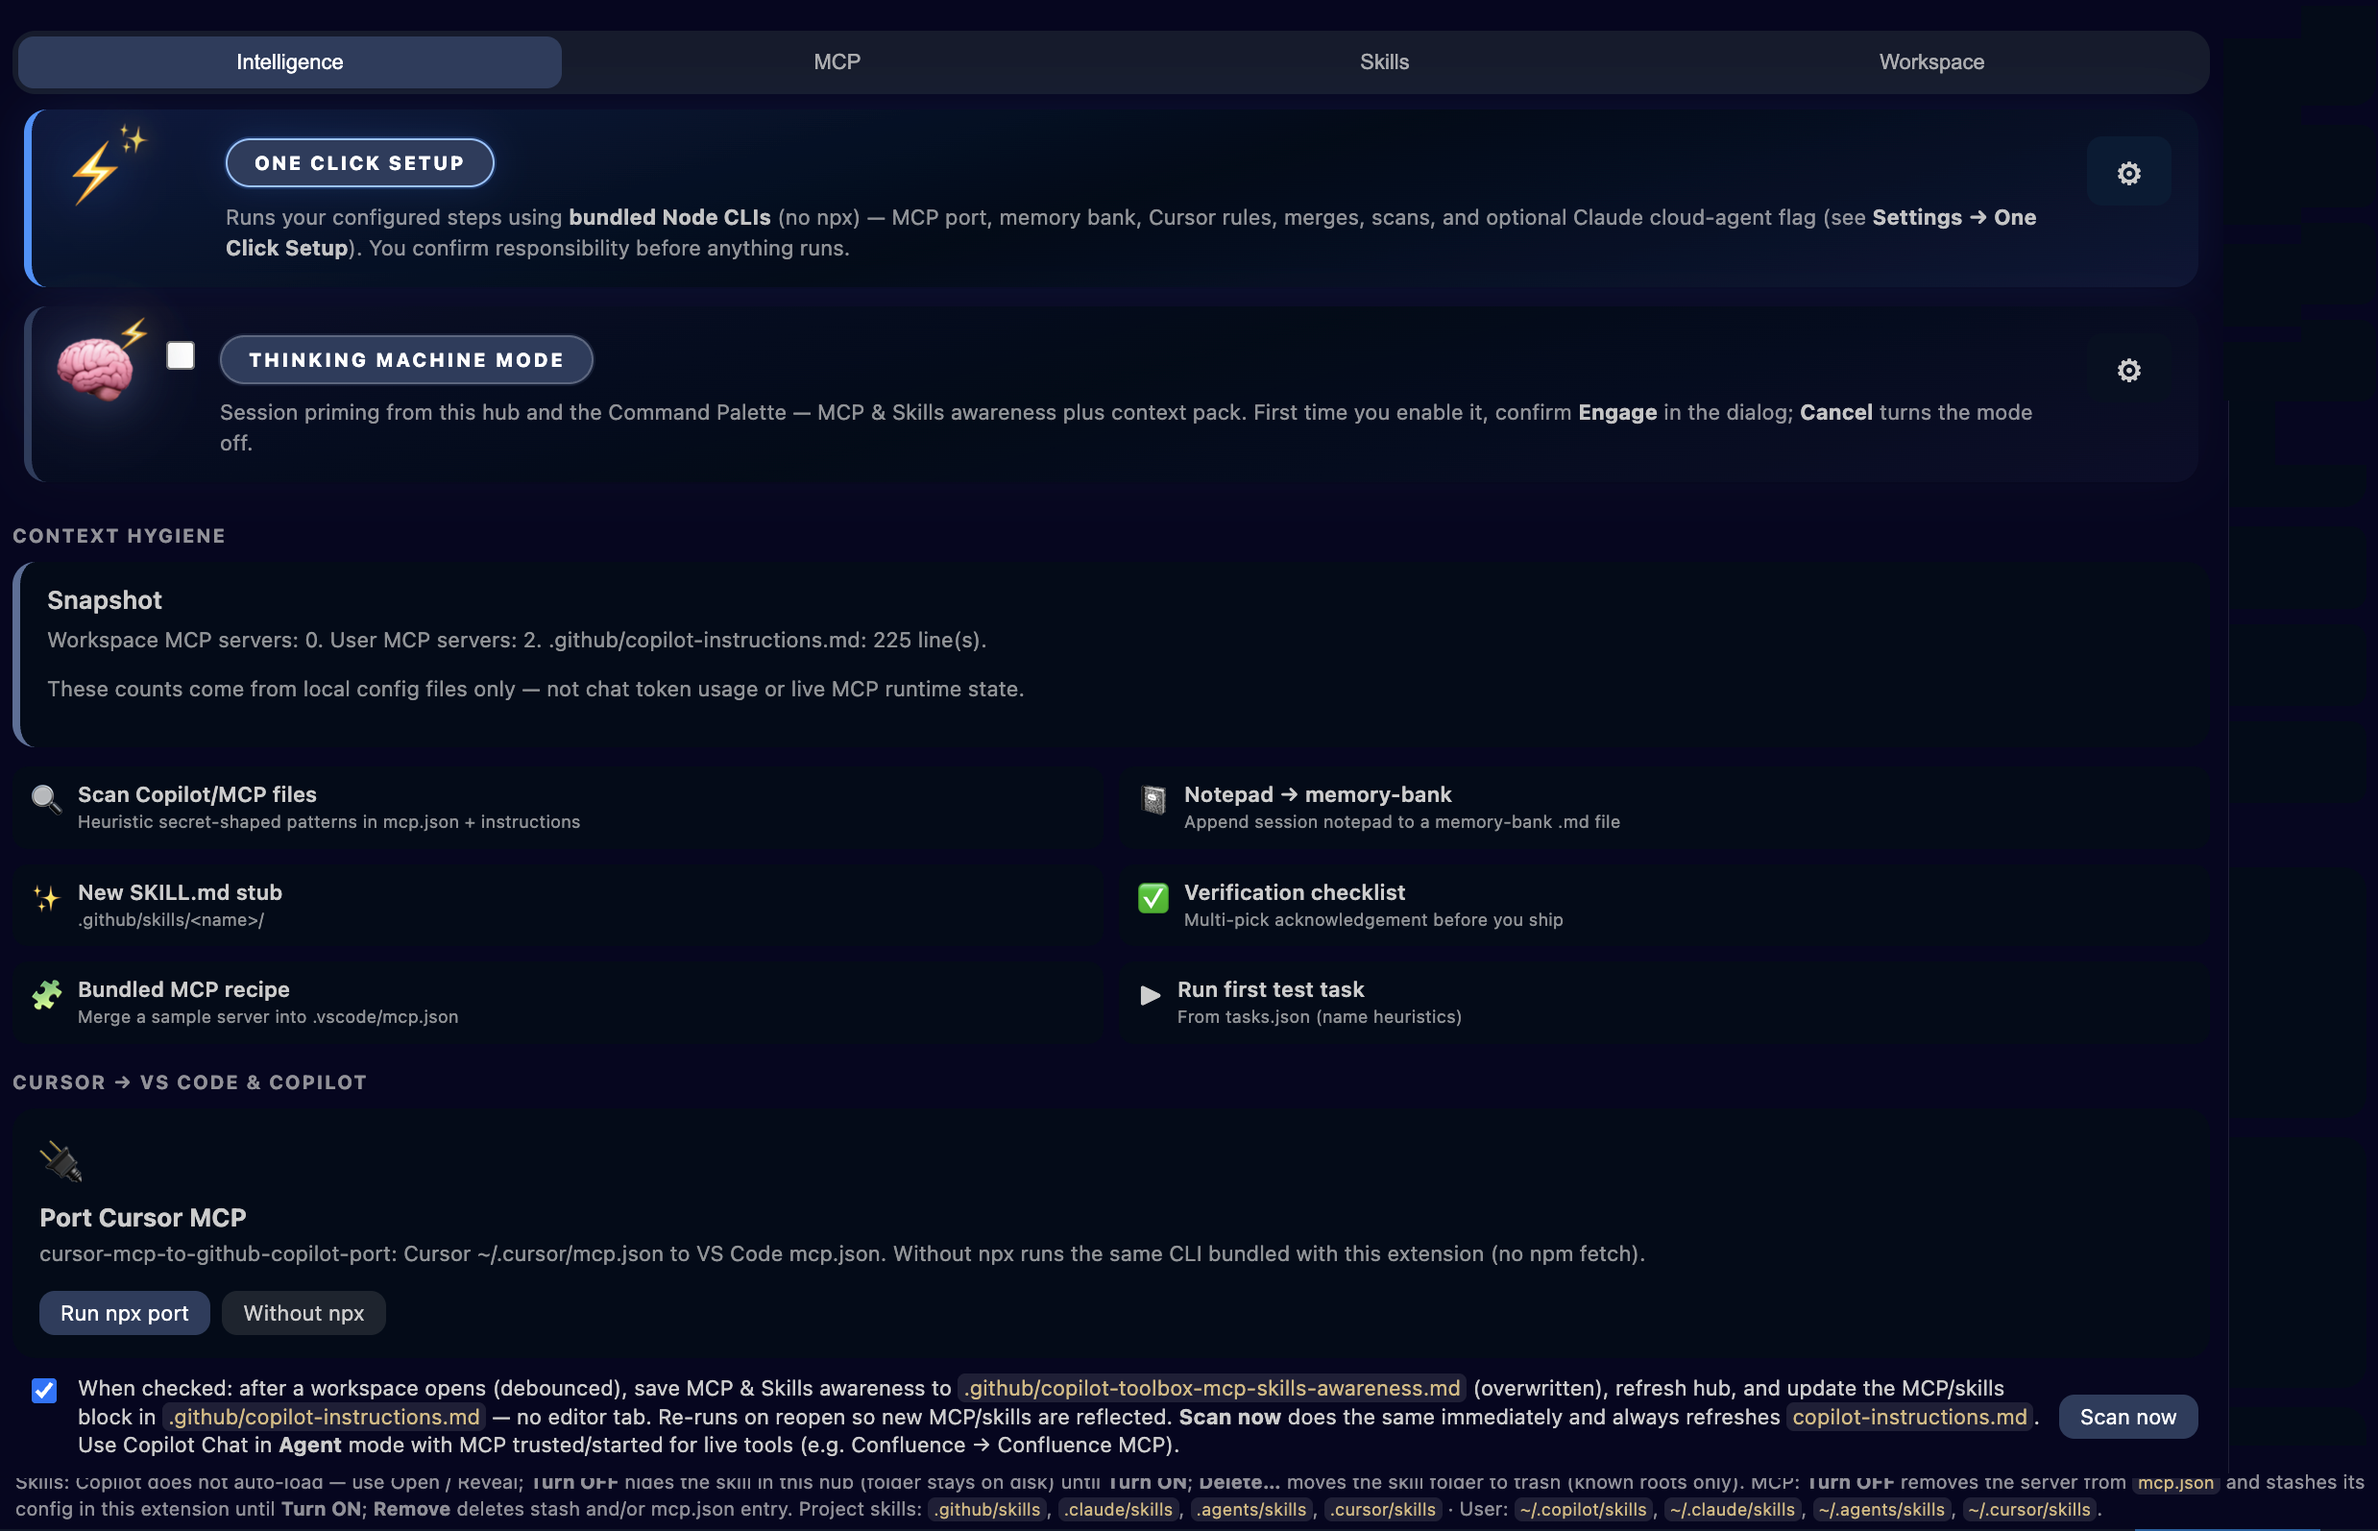
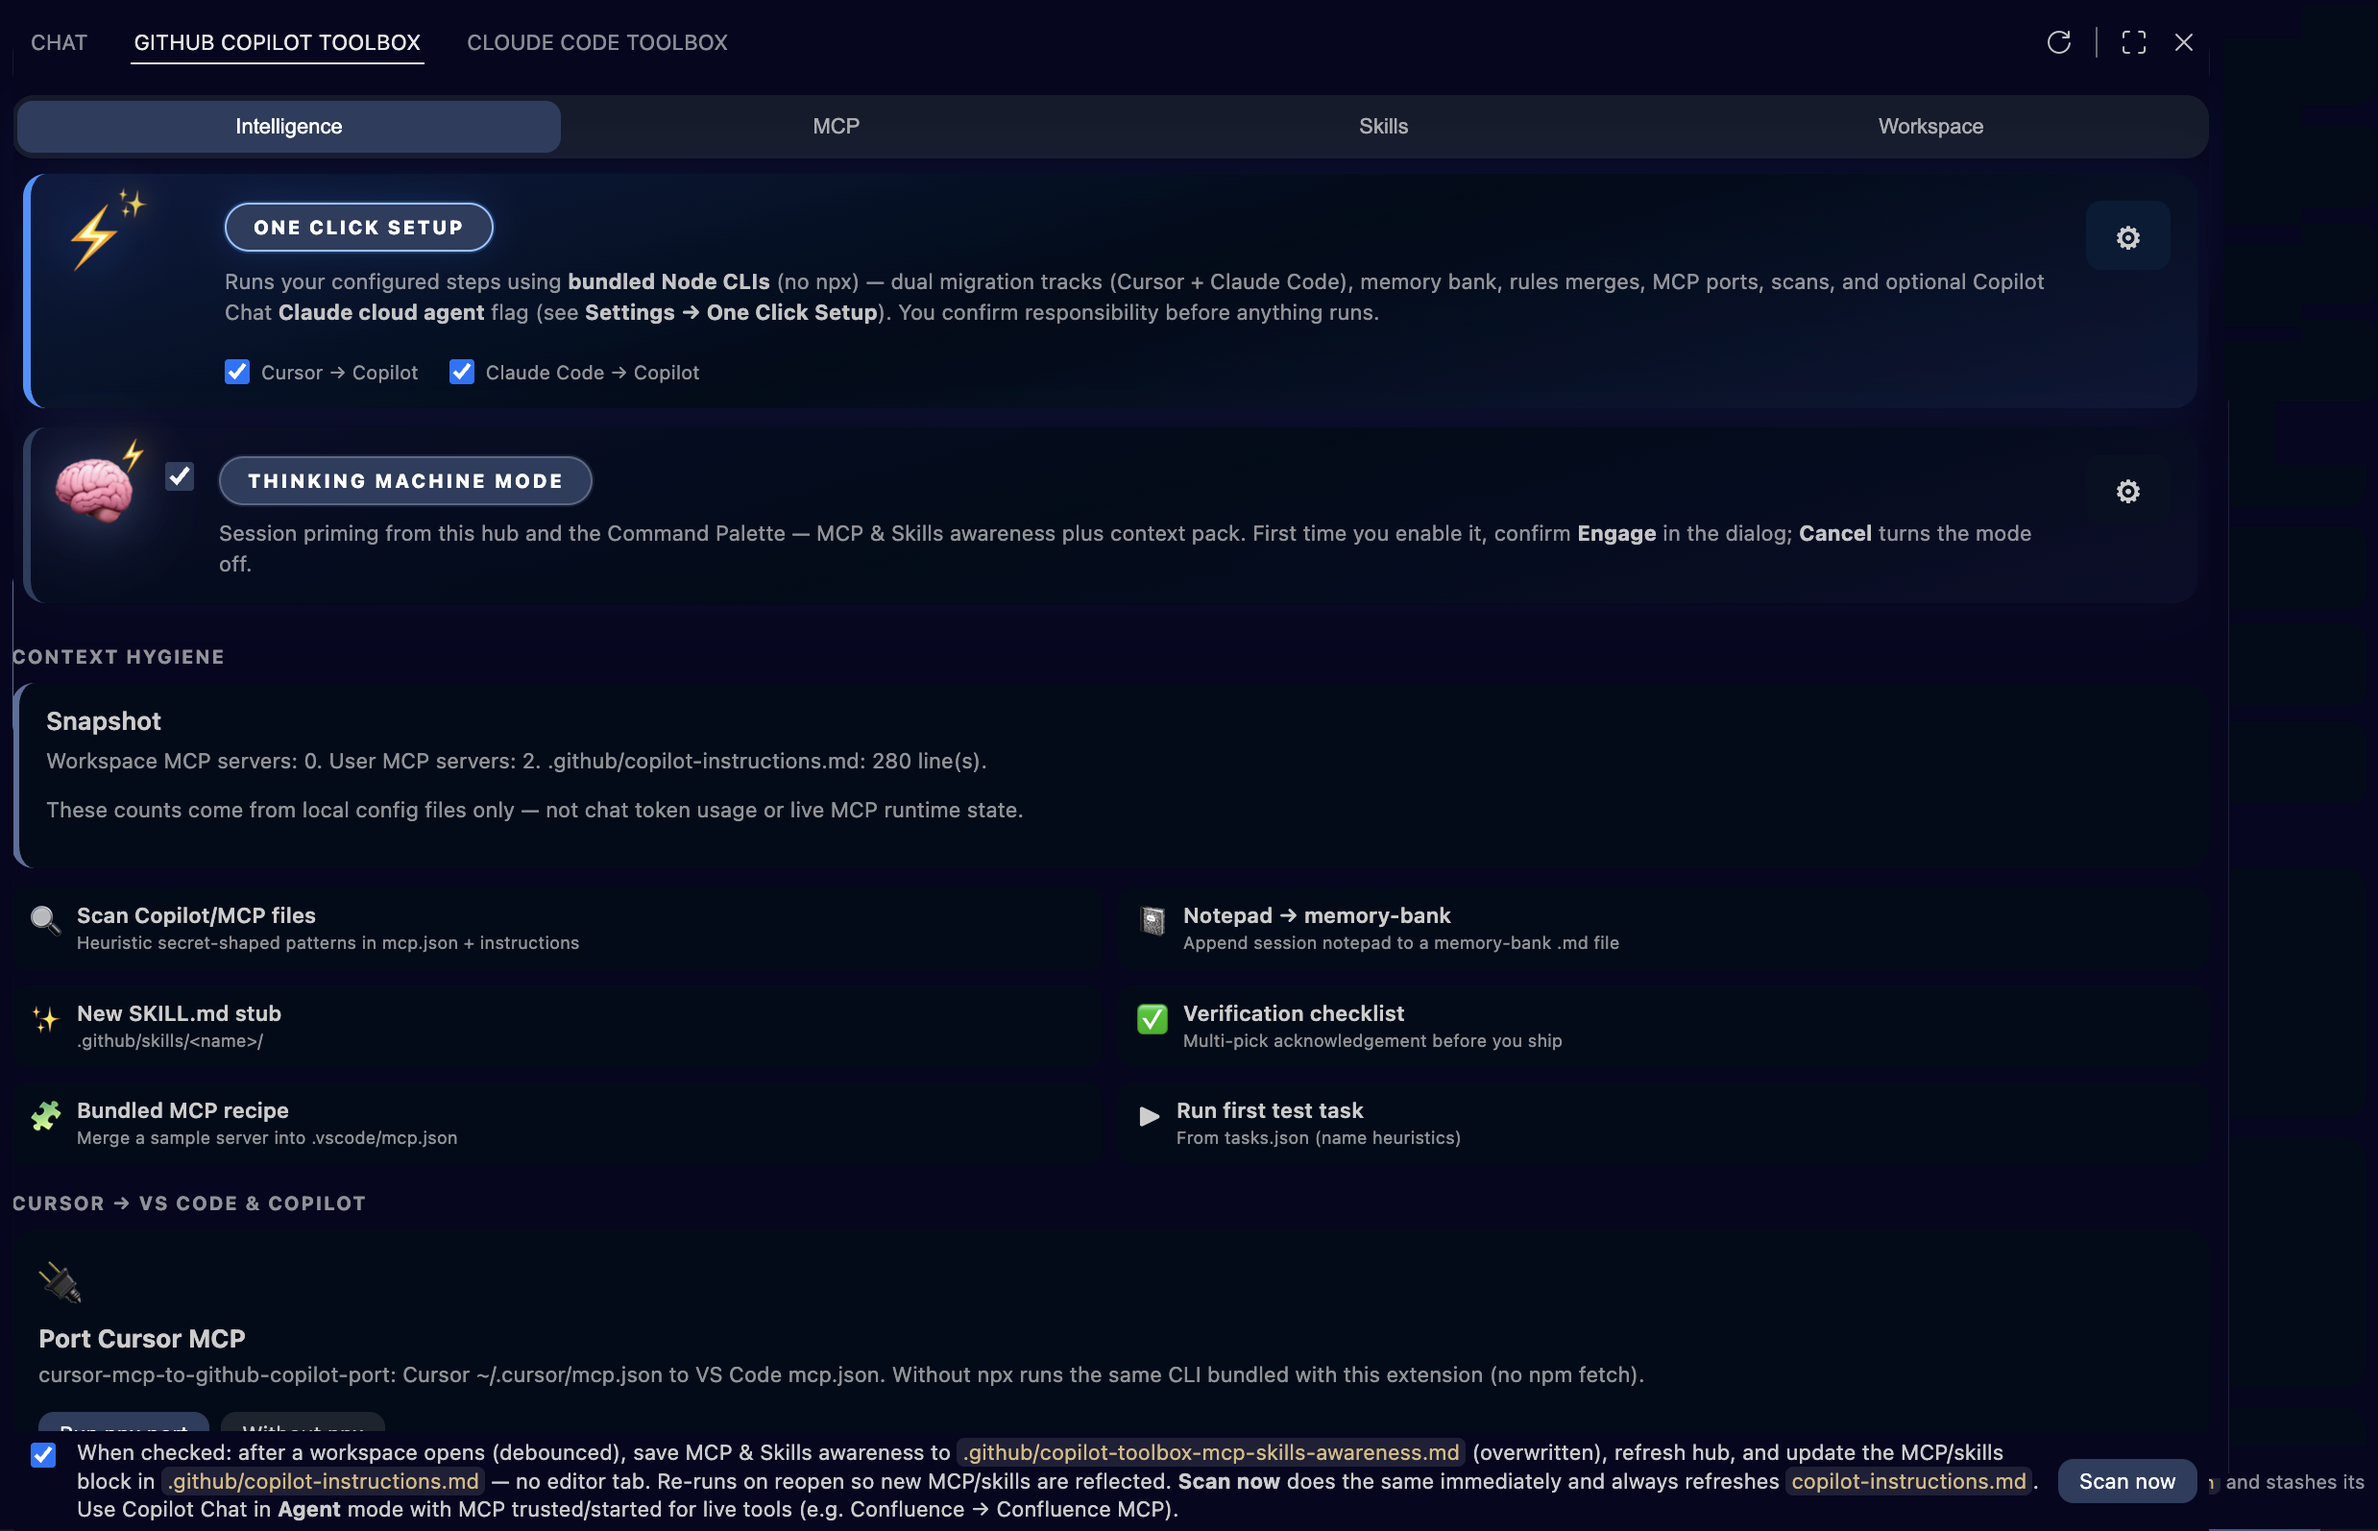
chore: refresh Intelligence screenshot, bump 0.5.44

diff --git a/docs/index.html b/docs/index.html
@@ -73,7 +73,7 @@
                 class="zoomable"
                 tabindex="0"
                 data-caption="Intelligence tab — Cursor → VS Code &amp; Copilot bridges (inside the hub)"
-                src="https://raw.githubusercontent.com/amitchorasiya/Github-Copilot-ToolBox/main/screenshots/01-intelligence-cursor-to-vscode-copilot.png?v=0.5.39"
+                src="https://raw.githubusercontent.com/amitchorasiya/Github-Copilot-ToolBox/main/screenshots/01-intelligence-cursor-to-vscode-copilot.png?v=0.5.44"
                 alt="GitHub Copilot Toolbox hub: Intelligence tab with Cursor to VS Code and Copilot bridges. Click to view fullscreen."
                 width="2476"
                 height="1594"
@@ -184,7 +184,7 @@
                 class="zoomable"
                 tabindex="0"
                 data-caption="Cursor → VS Code &amp; Copilot bridges"
-                src="https://raw.githubusercontent.com/amitchorasiya/Github-Copilot-ToolBox/main/screenshots/01-intelligence-cursor-to-vscode-copilot.png?v=0.5.39"
+                src="https://raw.githubusercontent.com/amitchorasiya/Github-Copilot-ToolBox/main/screenshots/01-intelligence-cursor-to-vscode-copilot.png?v=0.5.44"
                 alt="Intelligence: Cursor to VS Code bridges. Click to view fullscreen."
                 width="2476"
                 height="1594"

diff --git a/packages/github-copilot-toolbox/README.md b/packages/github-copilot-toolbox/README.md
@@ -10,7 +10,7 @@
 
 **Missing the icon?** **Command Palette** (**Ctrl+Shift+P** / **⌘⇧P**) → type **GitHub Copilot Toolbox** → run a command, or **Developer: Reload Window**, then repeat steps 2–3.
 
-![Activity Bar → Copilot Toolbox; Side Bar → MCP & skills hub](https://raw.githubusercontent.com/amitchorasiya/Github-Copilot-ToolBox/main/screenshots/00-copilot-toolbox-access.png?v=0.5.43)
+![Activity Bar → Copilot Toolbox; Side Bar → MCP & skills hub](https://raw.githubusercontent.com/amitchorasiya/Github-Copilot-ToolBox/main/screenshots/00-copilot-toolbox-access.png?v=0.5.44)
 
 ## One place for Copilot-related setup
 
@@ -73,33 +73,33 @@ VS Code resolves README images relative to this package folder. Screenshots live
 
 **Intelligence** (hub): **Port Cursor → Copilot** (MCP, rules, memory bank), then broader bridges, context pack, readiness, MCP & Skills scan.
 
-![Intelligence: Port Cursor MCP, rules, and memory bank to VS Code & Copilot](https://raw.githubusercontent.com/amitchorasiya/Github-Copilot-ToolBox/main/screenshots/02-intelligence-cursor-port.png?v=0.5.43)
+![Intelligence: Port Cursor MCP, rules, and memory bank to VS Code & Copilot](https://raw.githubusercontent.com/amitchorasiya/Github-Copilot-ToolBox/main/screenshots/02-intelligence-cursor-port.png?v=0.5.44)
 
-![Intelligence tab: Cursor to VS Code and Copilot bridges](https://raw.githubusercontent.com/amitchorasiya/Github-Copilot-ToolBox/main/screenshots/01-intelligence-cursor-to-vscode-copilot.png?v=0.5.43)
+![Intelligence tab: Cursor and Claude Code bridges to VS Code and Copilot](https://raw.githubusercontent.com/amitchorasiya/Github-Copilot-ToolBox/main/screenshots/01-intelligence-cursor-to-vscode-copilot.png?v=0.5.44)
 
-![Intelligence: context pack and readiness actions](https://raw.githubusercontent.com/amitchorasiya/Github-Copilot-ToolBox/main/screenshots/02-intelligence-context-readiness.png?v=0.5.43)
+![Intelligence: context pack and readiness actions](https://raw.githubusercontent.com/amitchorasiya/Github-Copilot-ToolBox/main/screenshots/02-intelligence-context-readiness.png?v=0.5.44)
 
 **MCP**: installed workspace/user servers and registry browse.
 
-![MCP: installed workspace servers (Browse / Installed)](https://raw.githubusercontent.com/amitchorasiya/Github-Copilot-ToolBox/main/screenshots/03-mcp-browse-workspace-servers.png?v=0.5.43)
+![MCP: installed workspace servers (Browse / Installed)](https://raw.githubusercontent.com/amitchorasiya/Github-Copilot-ToolBox/main/screenshots/03-mcp-browse-workspace-servers.png?v=0.5.44)
 
-![MCP: registry browse & search](https://raw.githubusercontent.com/amitchorasiya/Github-Copilot-ToolBox/main/screenshots/04-mcp-registry-search.png?v=0.5.43)
+![MCP: registry browse & search](https://raw.githubusercontent.com/amitchorasiya/Github-Copilot-ToolBox/main/screenshots/04-mcp-registry-search.png?v=0.5.44)
 
 **Skills**: catalog (skills.sh) and local installed `SKILL.md` trees.
 
-![Skills: catalog (skills.sh)](https://raw.githubusercontent.com/amitchorasiya/Github-Copilot-ToolBox/main/screenshots/05-skills-catalog-skills-sh.png?v=0.5.43)
+![Skills: catalog (skills.sh)](https://raw.githubusercontent.com/amitchorasiya/Github-Copilot-ToolBox/main/screenshots/05-skills-catalog-skills-sh.png?v=0.5.44)
 
-![Skills: installed local skill folders](https://raw.githubusercontent.com/amitchorasiya/Github-Copilot-ToolBox/main/screenshots/06-skills-installed-local.png?v=0.5.43)
+![Skills: installed local skill folders](https://raw.githubusercontent.com/amitchorasiya/Github-Copilot-ToolBox/main/screenshots/06-skills-installed-local.png?v=0.5.44)
 
 **Workspace** checklist and **Intelligence** hub (context hygiene).
 
-![Workspace kit checklist](https://raw.githubusercontent.com/amitchorasiya/Github-Copilot-ToolBox/main/screenshots/07-workspace-checklist.png?v=0.5.43)
+![Workspace kit checklist](https://raw.githubusercontent.com/amitchorasiya/Github-Copilot-ToolBox/main/screenshots/07-workspace-checklist.png?v=0.5.44)
 
-![Intelligence: context hygiene, snapshot, and quick actions](https://raw.githubusercontent.com/amitchorasiya/Github-Copilot-ToolBox/main/screenshots/08-workspace-toolbox-commands.png?v=0.5.43)
+![Intelligence: context hygiene, snapshot, and quick actions](https://raw.githubusercontent.com/amitchorasiya/Github-Copilot-ToolBox/main/screenshots/08-workspace-toolbox-commands.png?v=0.5.44)
 
 **Reference diagram** (Mermaid export; not a live UI capture).
 
-![Cursor vs Copilot capability map (diagram)](https://raw.githubusercontent.com/amitchorasiya/Github-Copilot-ToolBox/main/screenshots/mermaid-copilot-map.png?v=0.5.43)
+![Cursor vs Copilot capability map (diagram)](https://raw.githubusercontent.com/amitchorasiya/Github-Copilot-ToolBox/main/screenshots/mermaid-copilot-map.png?v=0.5.44)
 
 ---
 

diff --git a/README.md b/README.md
@@ -1,6 +1,6 @@
 # GitHub Copilot Toolbox
 
-**VS Code extension + monorepo:** [`Github-Copilot-ToolBox`](https://github.com/amitchorasiya/Github-Copilot-ToolBox) on GitHub · **License:** [MIT](LICENSE) · **Marketplace:** `amitchorasiya.github-copilot-toolbox` · **Extension version:** `0.5.43`
+**VS Code extension + monorepo:** [`Github-Copilot-ToolBox`](https://github.com/amitchorasiya/Github-Copilot-ToolBox) on GitHub · **License:** [MIT](LICENSE) · **Marketplace:** `amitchorasiya.github-copilot-toolbox` · **Extension version:** `0.5.44`
 
 ## After install: open Copilot Toolbox
 
@@ -87,7 +87,7 @@ These are **actual VS Code UI captures** from the extension—what users see on 
 
 ![Intelligence: Port Cursor MCP, rules, and memory bank to VS Code & Copilot](screenshots/02-intelligence-cursor-port.png)
 
-![Intelligence tab: Cursor to VS Code and Copilot bridges](screenshots/01-intelligence-cursor-to-vscode-copilot.png)
+![Intelligence tab: Cursor and Claude Code bridges to VS Code and Copilot](screenshots/01-intelligence-cursor-to-vscode-copilot.png)
 
 ![Intelligence: context pack and readiness actions](screenshots/02-intelligence-context-readiness.png)
 

diff --git a/packages/github-copilot-toolbox/CHANGELOG.md b/packages/github-copilot-toolbox/CHANGELOG.md
@@ -1,5 +1,9 @@
 # Changelog
 
+## 0.5.44
+
+- **Docs:** Refreshed **Intelligence** screenshot `screenshots/01-intelligence-cursor-to-vscode-copilot.png` (Cursor + Claude Code hub rows). README cache-bust and marketing site image query updated.
+
 ## 0.5.43
 
 - **Intelligence hub:** New section **Claude Code → VS Code & Copilot** (below Cursor): merge **CLAUDE.md**, **port workspace .mcp.json**, **migrate .claude/skills → .agents**, and **memory bank** (same bundled init as Cursor row). New palette commands **`migrateSkillsClaudeToAgents`** and **`portClaudeProjectMcp`**.
